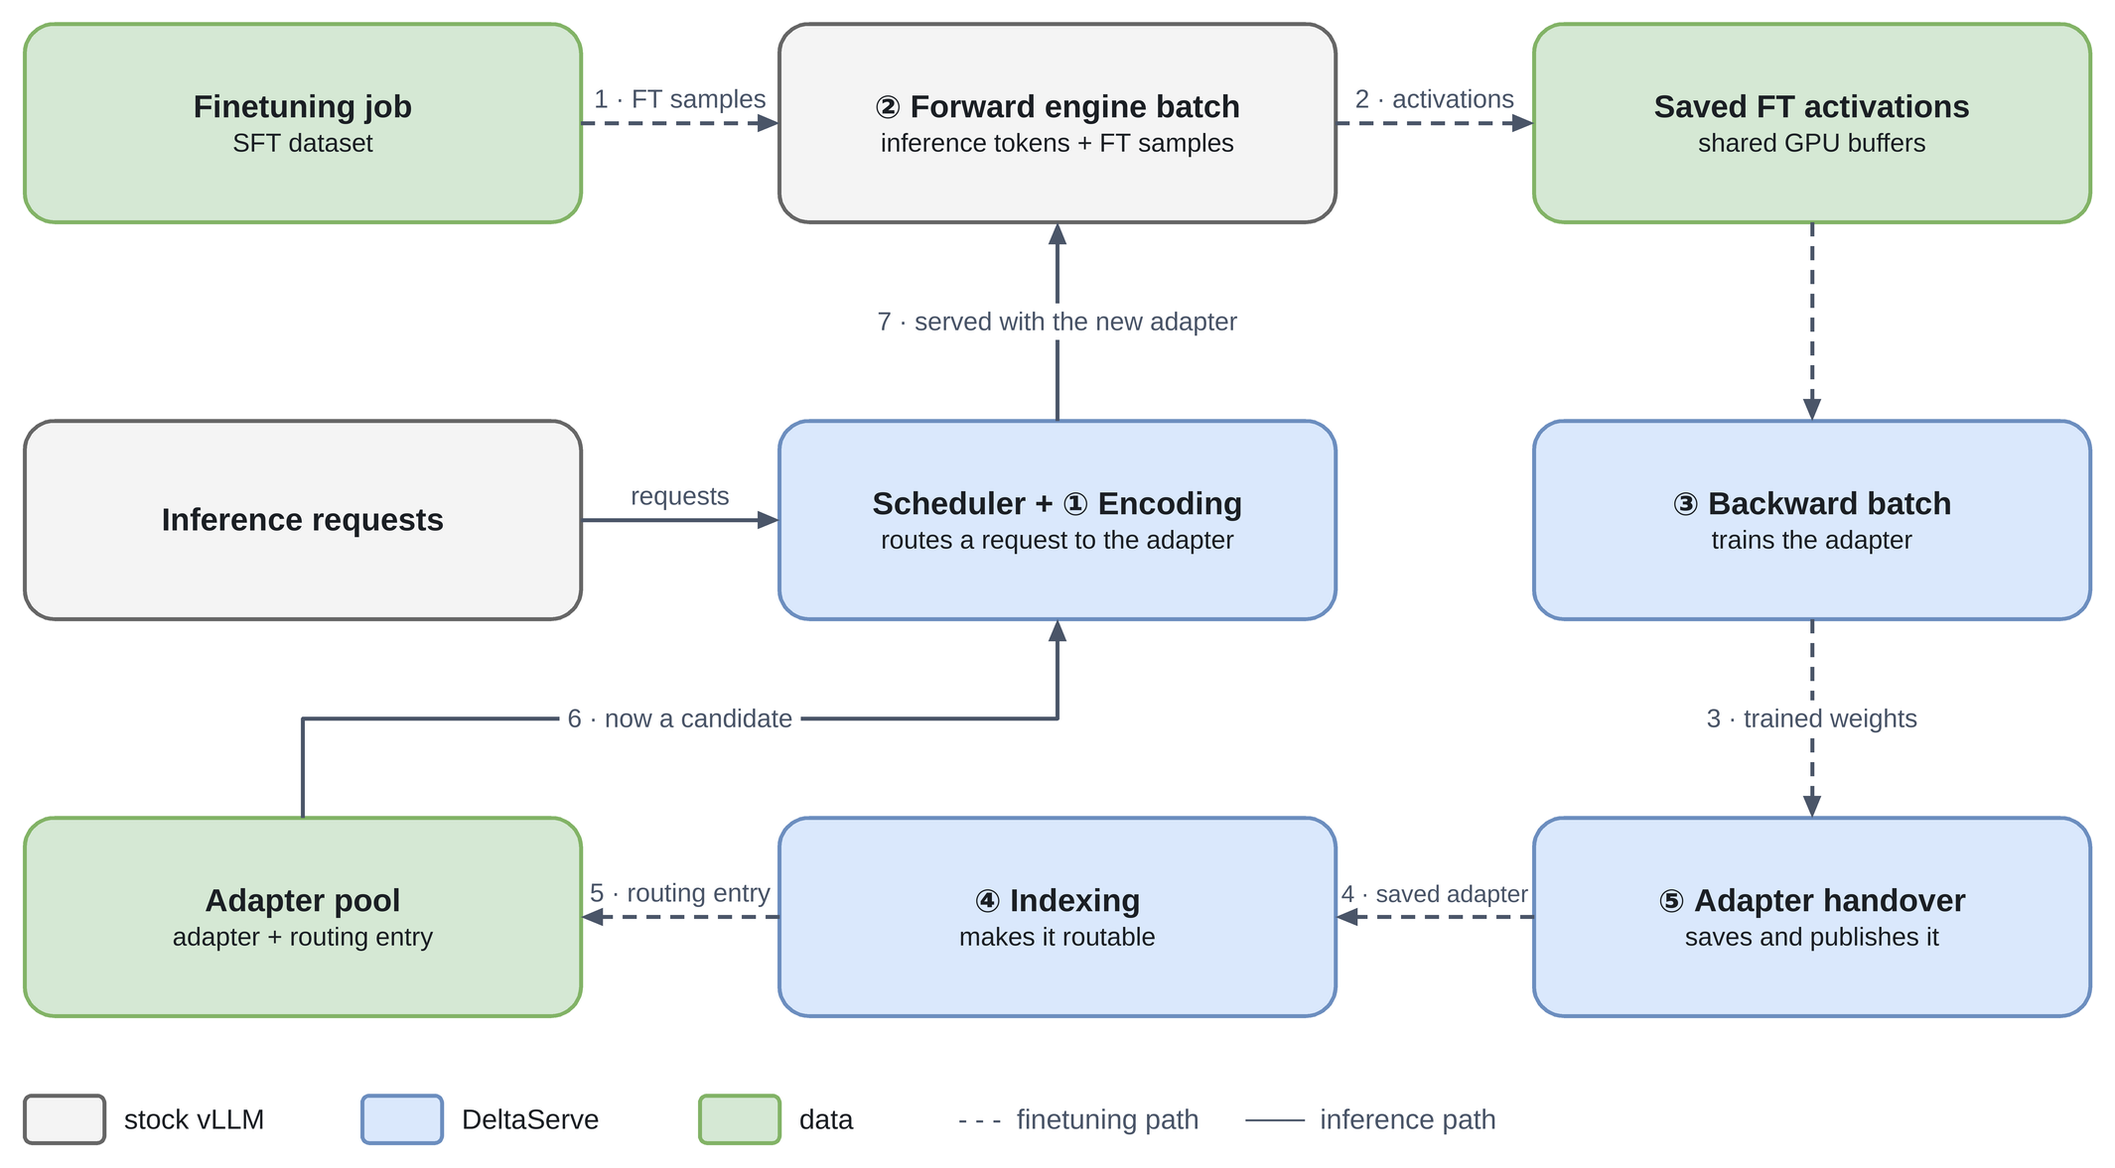
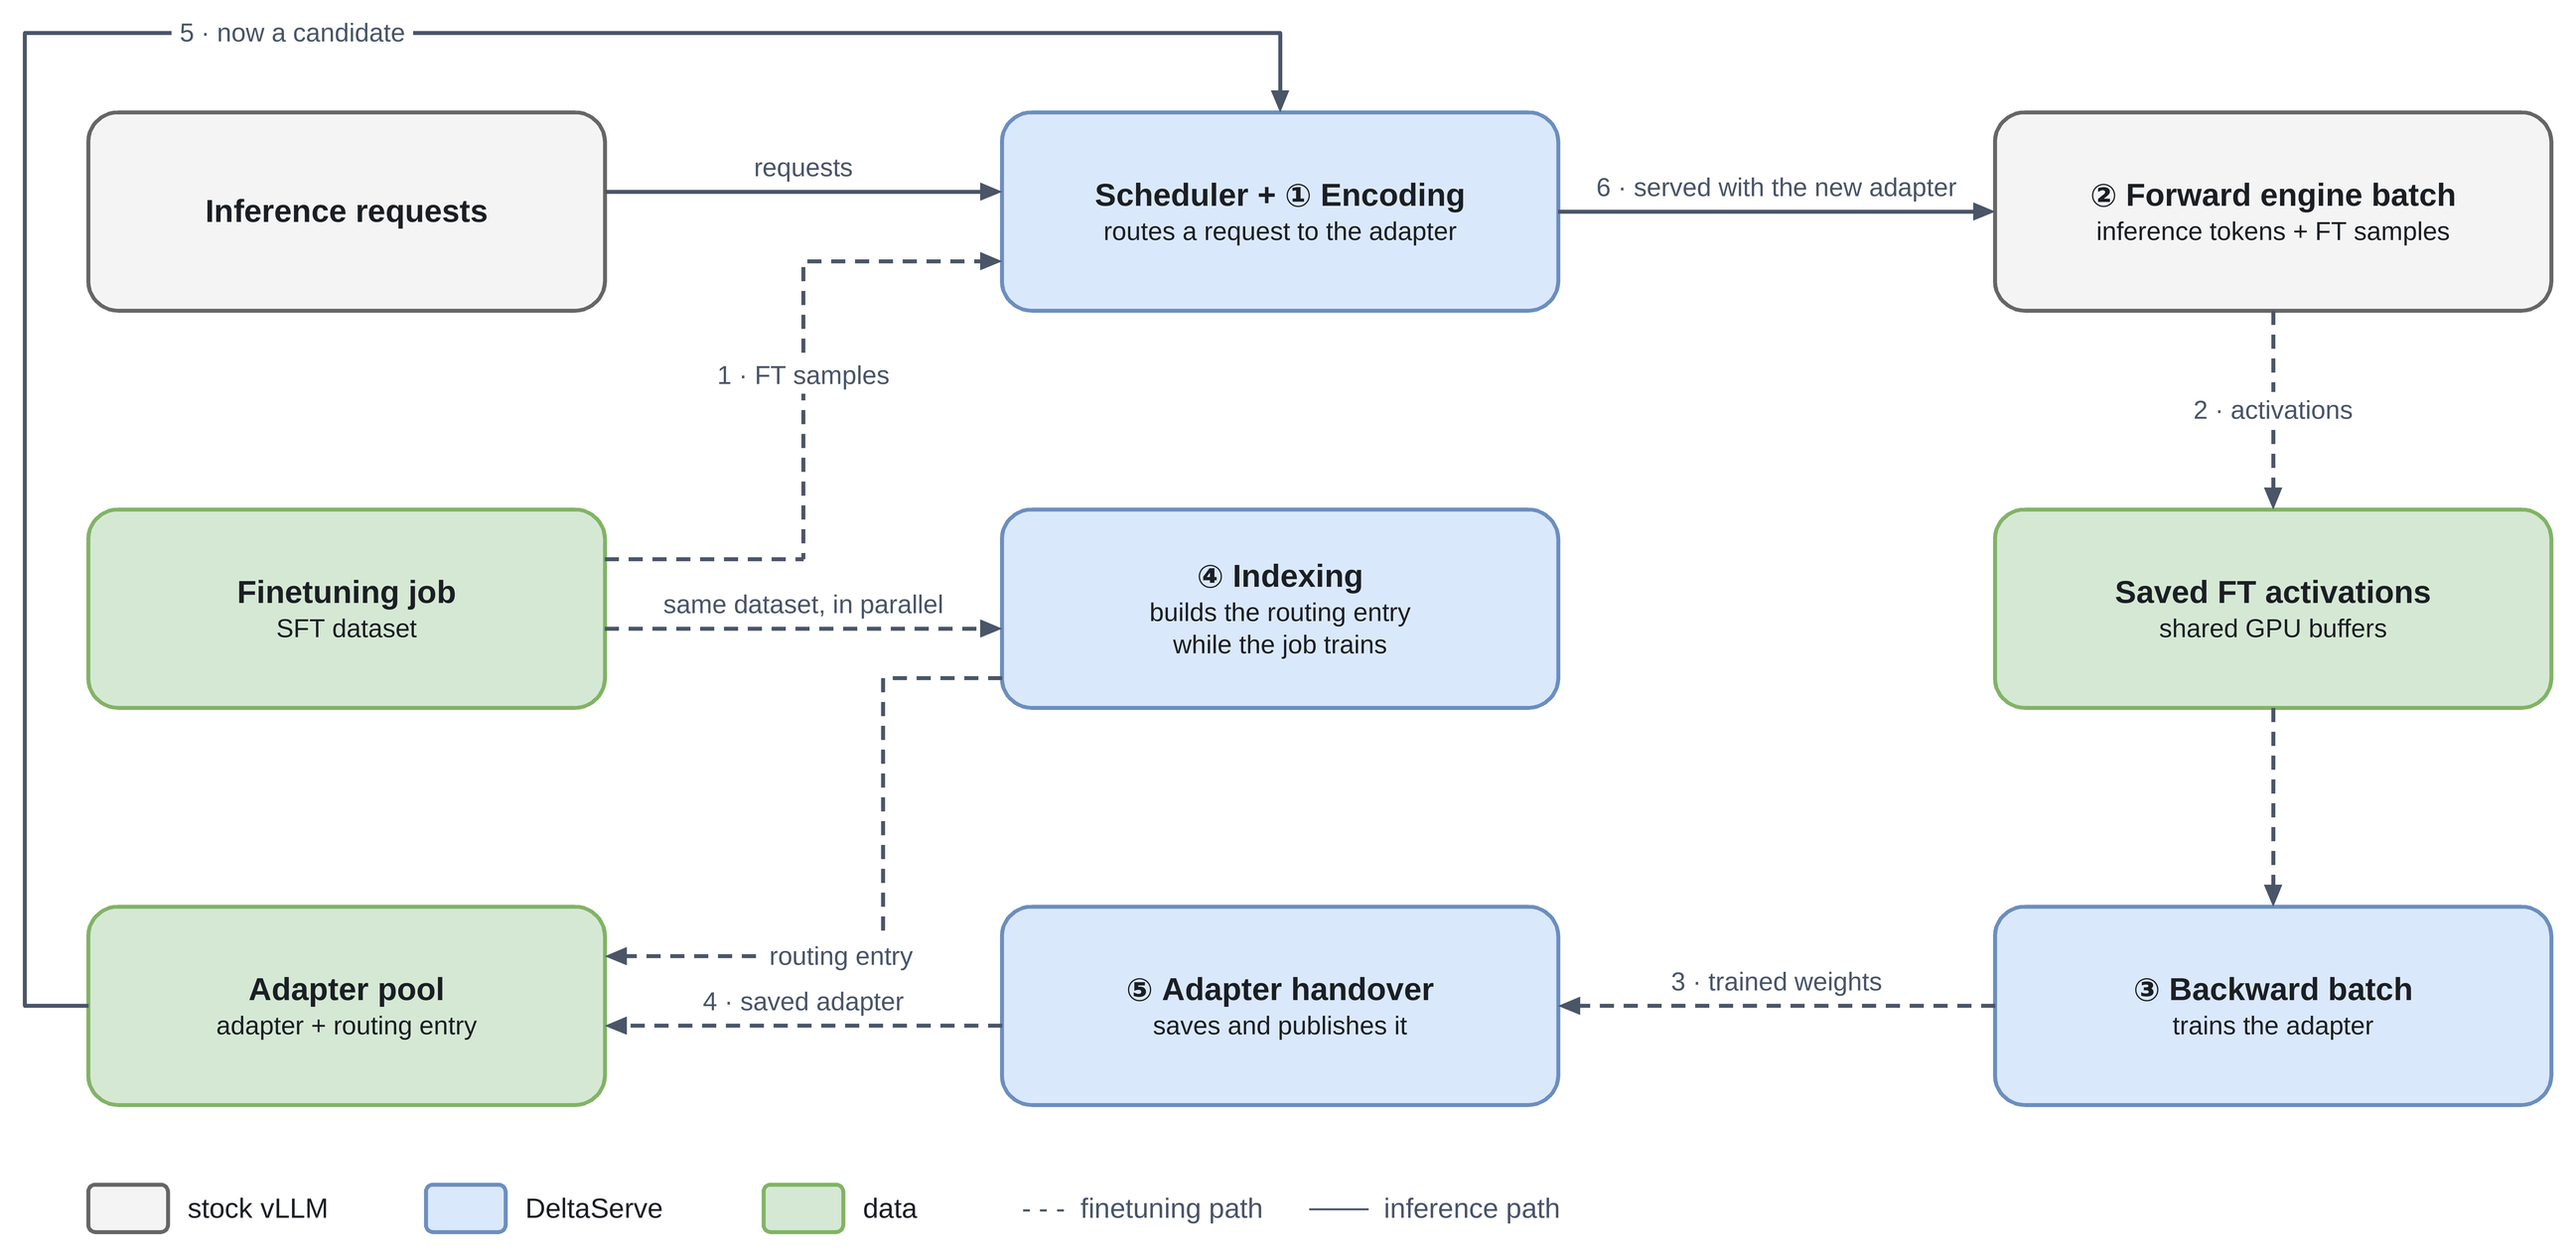
docs: indexing runs in parallel with training (lifecycle, indexing, handover figures + text); lifecycle inputs in the left column

diff --git a/docs/adapter_routing_scheduling.md b/docs/adapter_routing_scheduling.md
@@ -51,9 +51,11 @@ when the backward may run.
 
 Adapter routing closes a loop. A finetuning job's samples go through the forward
 batch (1), their activations are saved (2), and the backward trains the adapter (3).
-When the job finishes, the **adapter handover** saves and publishes it (4);
-**indexing** computes its routing entry (5) and adds it to the adapter pool. From
-then on it is a candidate for routed requests (6), which are served with it (7).
+**In parallel**, indexing reads the same dataset and builds the adapter's routing
+entry while the job trains. When the job finishes, the **adapter handover** saves and
+publishes the adapter into the pool (4), where its routing entry is already waiting
+or arrives shortly after. From then on it is a candidate for routed requests (5),
+which are served with it (6).
 
 The loop introduces three kinds of work that did not exist in section 2: encoding,
 indexing, and the adapter handover.
@@ -96,7 +98,8 @@ Encoding turns a routed request into an adapter choice.
 
 Indexing makes an adapter routable by computing its routing entry.
 
-- **Input** — a new adapter and its finetuning dataset (up to 2500 samples).
+- **Input** — an adapter's finetuning dataset (up to 2500 samples). It starts with
+  the finetuning job and runs alongside training; it does not wait for the adapter.
 - **What it does** — encodes the samples in small chunks with the same encoder and
   keeps a running sum of the embeddings; the routing entry is their centroid.
 - **Where it runs** — the scheduler decides. While no inference request has been
@@ -135,8 +138,8 @@ memory, so the disk path is taken only on a cold start.
 When a finetuning job finishes, its adapter has to be saved and the backward has to
 move on to the next job. The scheduler closes FT admission and starts the handover;
 the backward process copies the trained weights to host memory, and an engine
-background thread merges, saves and publishes them into the adapter pool, where
-indexing picks the new adapter up. Once the weights are copied the backward switches
+background thread merges, saves and publishes them into the adapter pool, next to
+the routing entry that indexing built while the job trained. Once the weights are copied the backward switches
 to the next job's adapter and FT admission reopens. Saving is not time-critical, so
 none of it runs on the engine loop or keeps the GPU from inference.
 
